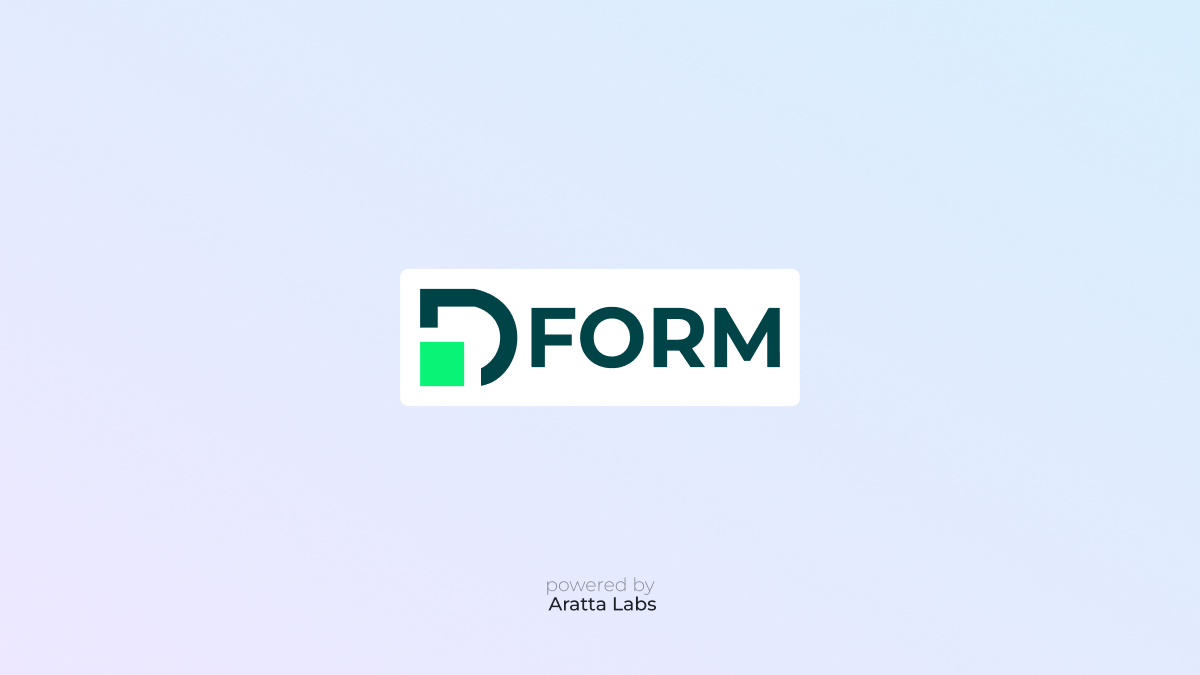
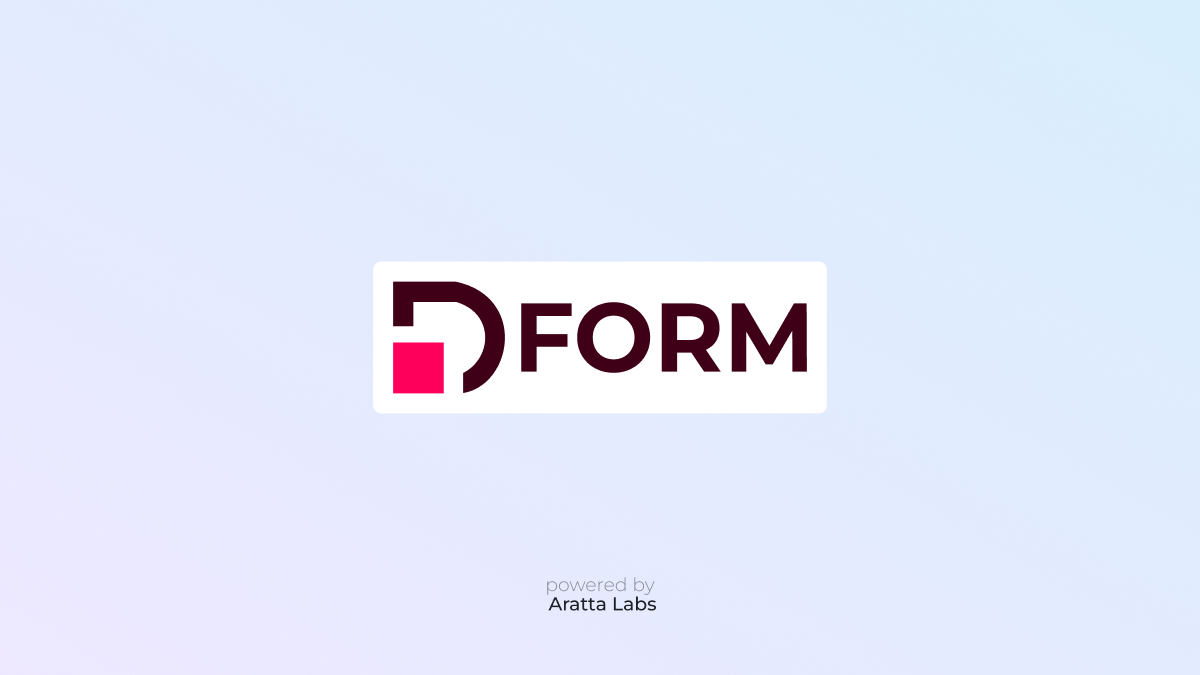
Change color of testnet

Changed region(s): [[0.3083, 0.3733, 0.7092, 0.6222]]

diff --git a/src/routes/Layout.module.scss b/src/routes/Layout.module.scss
@@ -21,9 +21,10 @@
       position: absolute;
       right: 0;
       top: calc(-100% + 10px);
-      background-color: var(--black-025);
+      background-color: #fff1f8;
+      color: var(--color-primary);
       border-radius: 999px;
-      padding: 0rem .5rem;
+      padding: 0rem 0.5rem;
       font-size: 10px;
       line-height: unset;
     }
@@ -99,7 +100,6 @@
   }
 }
 
-
 .main {
   grid-row-start: 2;
   grid-row-end: 3;
@@ -159,7 +159,7 @@
 .network {
   position: relative;
   cursor: pointer;
-  
+
   @include small-down() {
     //display: none;
   }
